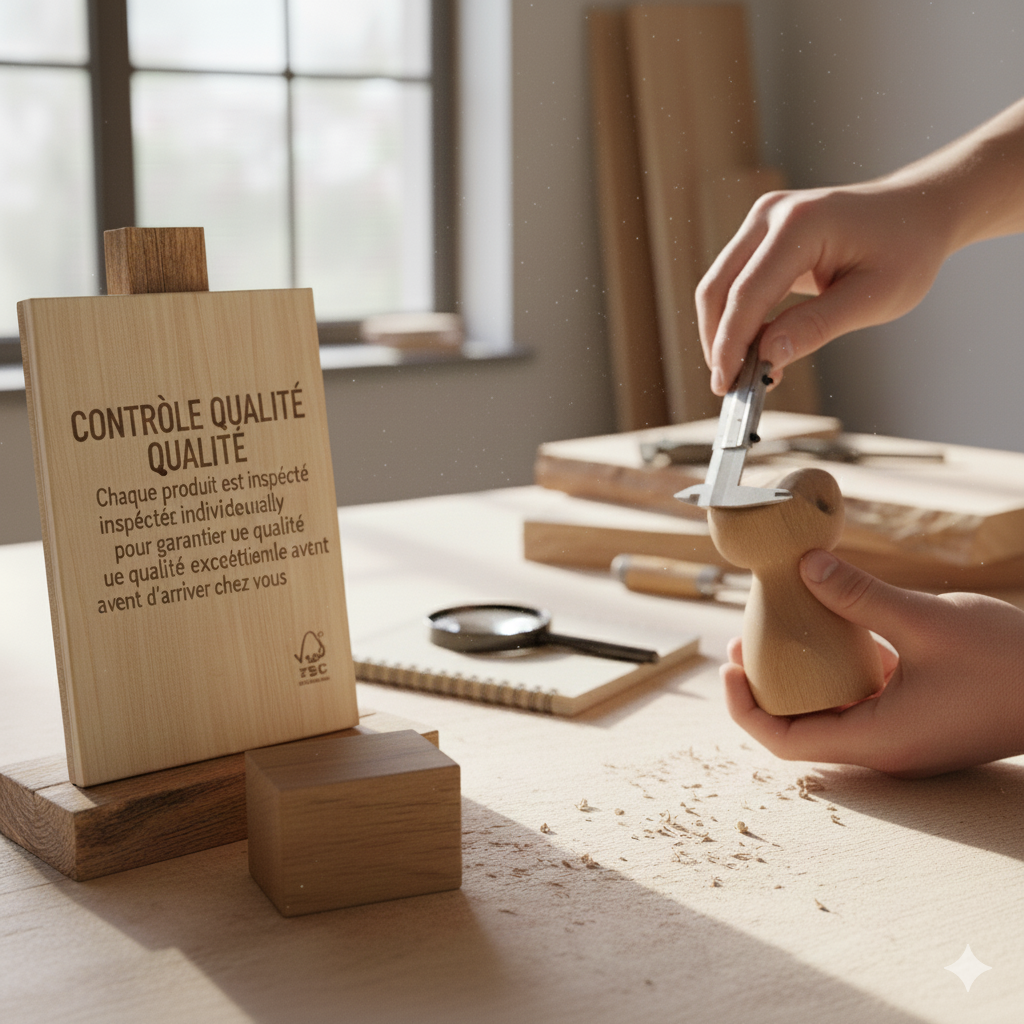
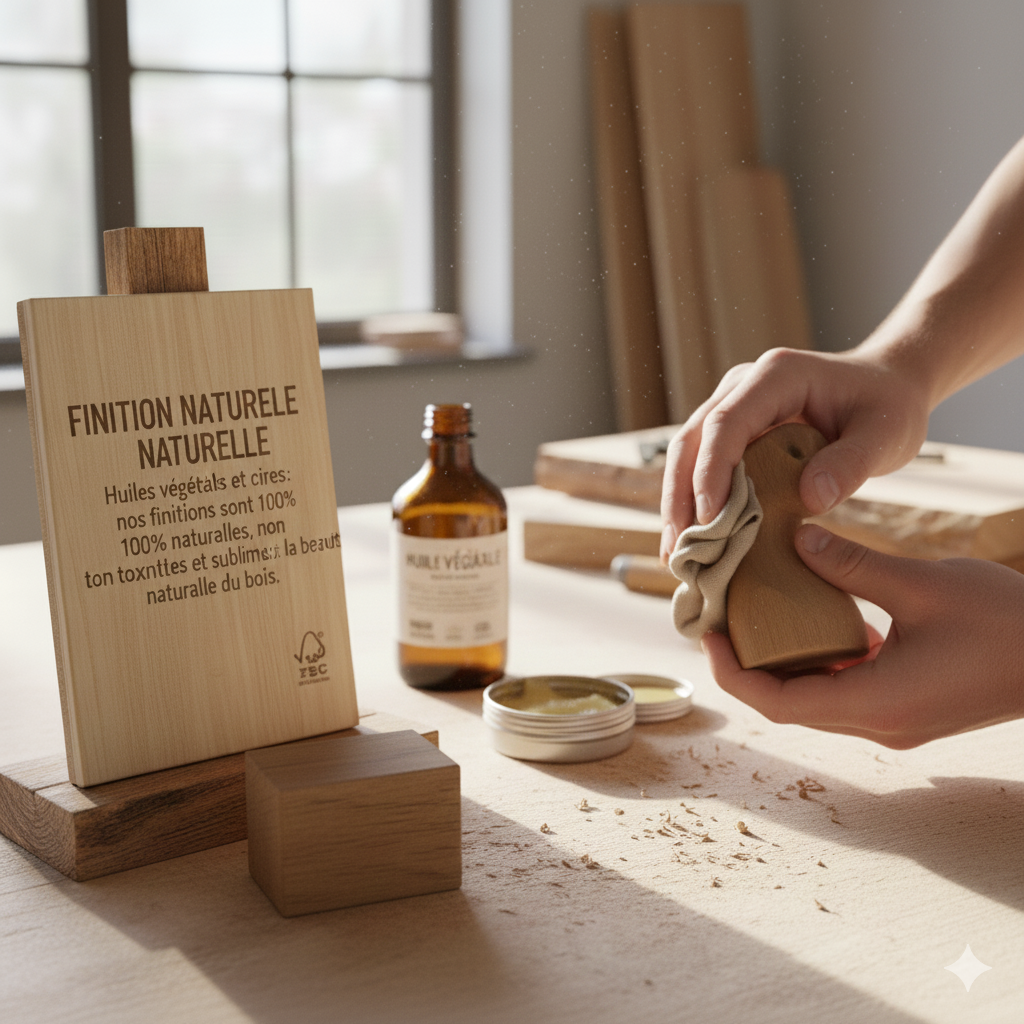
Correction images timeline + mise en page horizontale
- Réassociation des images aux bonnes descriptions
- Texte affiché à droite des images (responsive)

Changed region(s): [[0.3438, 0.0938, 1.0, 0.9062], [0.0625, 0.375, 0.3438, 0.5938]]

diff --git a/about.html b/about.html
@@ -86,8 +86,8 @@
                 <div class="timeline-item">
                     <figure>
                         <picture>
-                            <source type="image/webp" srcset="images/timeline_1-320.webp 320w, images/timeline_1-480.webp 480w, images/timeline_1-600.webp 600w">
-                            <img src="images/timeline_1-600.jpg" srcset="images/timeline_1-320.jpg 320w, images/timeline_1-480.jpg 480w, images/timeline_1-600.jpg 600w" sizes="(max-width: 768px) 100vw, 600px" alt="Sélection du bois" class="timeline-img" loading="lazy">
+                            <source type="image/webp" srcset="images/timeline_2-320.webp 320w, images/timeline_2-480.webp 480w, images/timeline_2-600.webp 600w">
+                            <img src="images/timeline_2-600.jpg" srcset="images/timeline_2-320.jpg 320w, images/timeline_2-480.jpg 480w, images/timeline_2-600.jpg 600w" sizes="(max-width: 768px) 100vw, 600px" alt="Sélection du bois" class="timeline-img" loading="lazy">
                         </picture>
                         <figcaption class="img-credit small"></figcaption>
                     </figure>
@@ -99,8 +99,8 @@
                 <div class="timeline-item">
                     <figure>
                         <picture>
-                            <source type="image/webp" srcset="images/timeline_2-320.webp 320w, images/timeline_2-480.webp 480w, images/timeline_2-600.webp 600w">
-                            <img src="images/timeline_2-600.jpg" srcset="images/timeline_2-320.jpg 320w, images/timeline_2-480.jpg 480w, images/timeline_2-600.jpg 600w" sizes="(max-width: 768px) 100vw, 600px" alt="Façonnage artisanal" class="timeline-img" loading="lazy">
+                            <source type="image/webp" srcset="images/timeline_1-320.webp 320w, images/timeline_1-480.webp 480w, images/timeline_1-600.webp 600w">
+                            <img src="images/timeline_1-600.jpg" srcset="images/timeline_1-320.jpg 320w, images/timeline_1-480.jpg 480w, images/timeline_1-600.jpg 600w" sizes="(max-width: 768px) 100vw, 600px" alt="Façonnage artisanal" class="timeline-img" loading="lazy">
                         </picture>
                         <figcaption class="img-credit small"></figcaption>
                     </figure>
@@ -112,8 +112,8 @@
                 <div class="timeline-item">
                     <figure>
                         <picture>
-                            <source type="image/webp" srcset="images/timeline_3-320.webp 320w, images/timeline_3-480.webp 480w, images/timeline_3-600.webp 600w">
-                            <img src="images/timeline_3-600.jpg" srcset="images/timeline_3-320.jpg 320w, images/timeline_3-480.jpg 480w, images/timeline_3-600.jpg 600w" sizes="(max-width: 768px) 100vw, 600px" alt="Finition naturelle" class="timeline-img" loading="lazy">
+                            <source type="image/webp" srcset="images/timeline_4-320.webp 320w, images/timeline_4-480.webp 480w, images/timeline_4-600.webp 600w">
+                            <img src="images/timeline_4-600.jpg" srcset="images/timeline_4-320.jpg 320w, images/timeline_4-480.jpg 480w, images/timeline_4-600.jpg 600w" sizes="(max-width: 768px) 100vw, 600px" alt="Finition naturelle" class="timeline-img" loading="lazy">
                         </picture>
                         <figcaption class="img-credit small"></figcaption>
                     </figure>
@@ -125,8 +125,8 @@
                 <div class="timeline-item">
                     <figure>
                         <picture>
-                            <source type="image/webp" srcset="images/timeline_4-320.webp 320w, images/timeline_4-480.webp 480w, images/timeline_4-600.webp 600w">
-                            <img src="images/timeline_4-600.jpg" srcset="images/timeline_4-320.jpg 320w, images/timeline_4-480.jpg 480w, images/timeline_4-600.jpg 600w" sizes="(max-width: 768px) 100vw, 600px" alt="Contrôle qualité" class="timeline-img" loading="lazy">
+                            <source type="image/webp" srcset="images/timeline_3-320.webp 320w, images/timeline_3-480.webp 480w, images/timeline_3-600.webp 600w">
+                            <img src="images/timeline_3-600.jpg" srcset="images/timeline_3-320.jpg 320w, images/timeline_3-480.jpg 480w, images/timeline_3-600.jpg 600w" sizes="(max-width: 768px) 100vw, 600px" alt="Contrôle qualité" class="timeline-img" loading="lazy">
                         </picture>
                         <figcaption class="img-credit small"></figcaption>
                     </figure>

diff --git a/style.css b/style.css
@@ -582,20 +582,58 @@ footer {
     margin-bottom: 8px;
 }
 
-.timeline-img {
-    width: 85%;
-    max-width: 350px;
-    height: auto;
-    border-radius: 10px;
-    margin-bottom: 8px;
-    box-shadow: 0 6px 18px var(--shadow);
-    margin-left: auto;
-    margin-right: auto;
+.timeline {
+    display: flex;
+    flex-direction: column;
+    gap: 40px;
+}
+
+.timeline-item {
+    display: flex;
+    align-items: center;
+    gap: 40px;
 }
 
 .timeline-item figure {
-    display: flex;
-    flex-direction: column-reverse;
+    flex-shrink: 0;
+    margin: 0;
+}
+
+.timeline-img {
+    width: 280px;
+    height: 200px;
+    object-fit: cover;
+    border-radius: 10px;
+    box-shadow: 0 6px 18px var(--shadow);
+}
+
+.timeline-content {
+    flex: 1;
+}
+
+.timeline-content h3 {
+    font-family: 'Cormorant Garamond', serif;
+    font-size: 1.6rem;
+    color: var(--wood-dark);
+    margin-bottom: 10px;
+}
+
+.timeline-content p {
+    color: var(--wood-light);
+    line-height: 1.7;
+}
+
+@media (max-width: 768px) {
+    .timeline-item {
+        flex-direction: column;
+        text-align: center;
+    }
+
+    .timeline-img {
+        width: 100%;
+        max-width: 300px;
+        height: auto;
+    }
 }
 
 .contact-photo {
